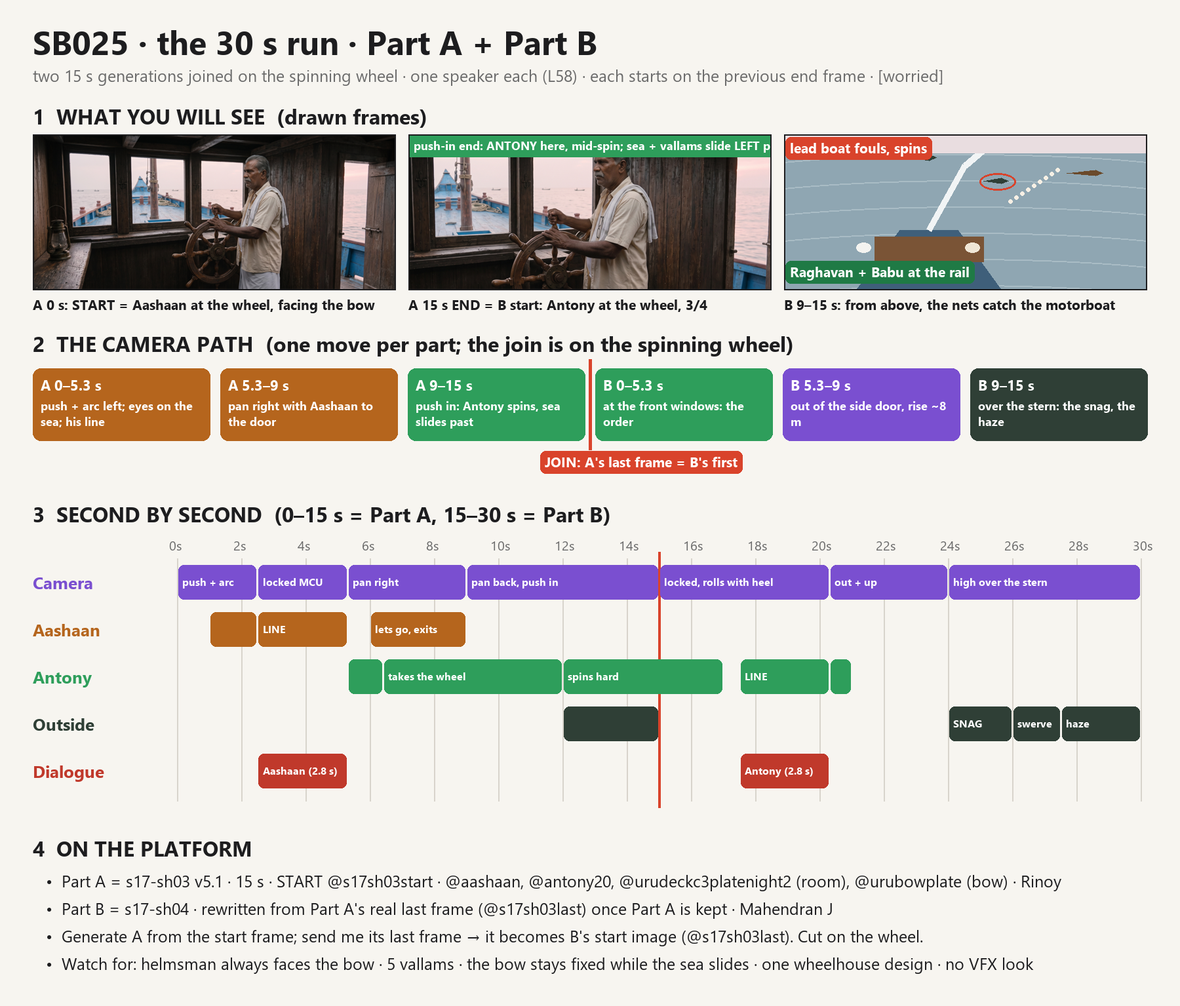
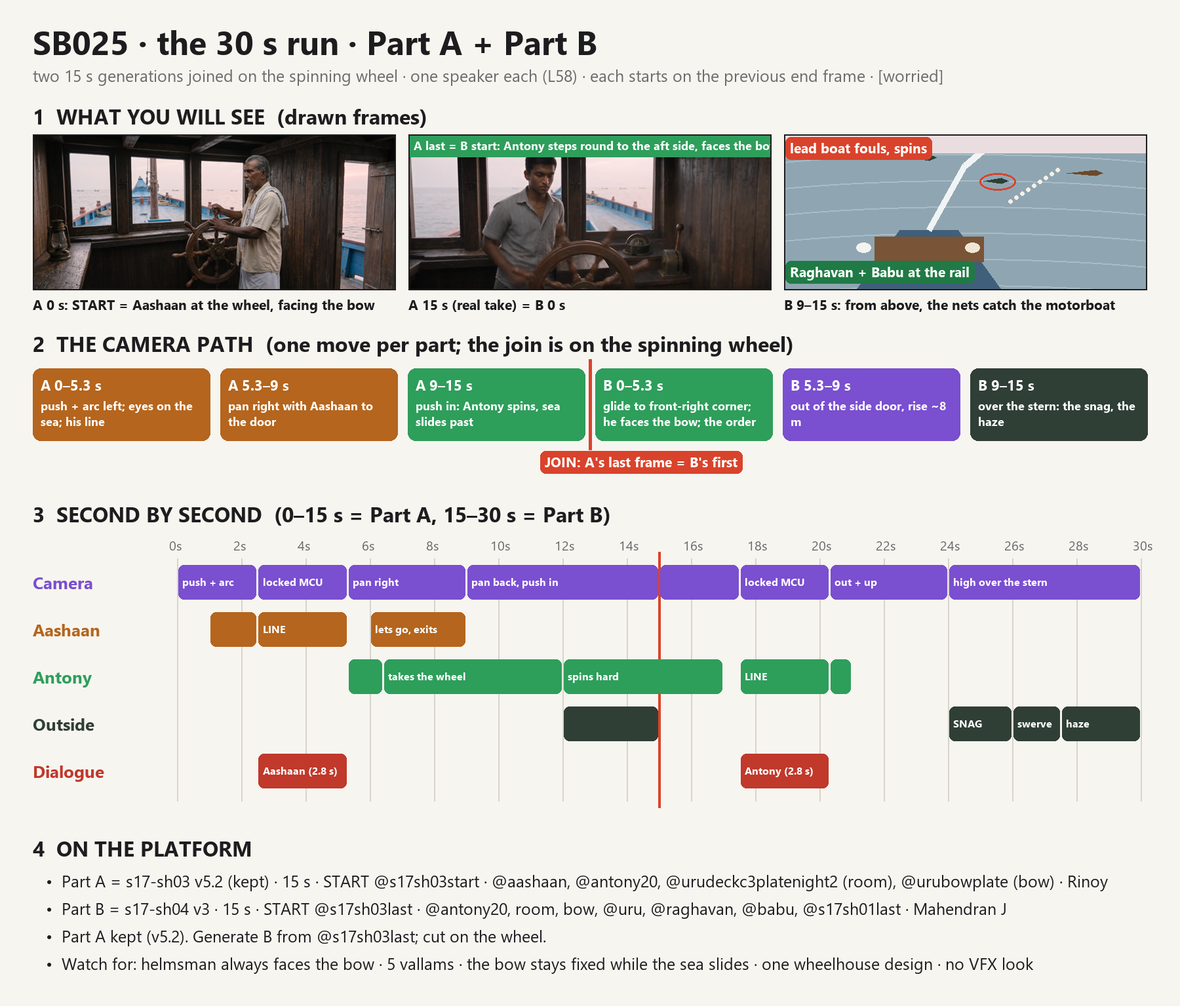
Ranjith: shot: s17-sh04 v3 (Part B from Part A's last frame; Antony steps to the aft side of the wheel, faces the bow)

diff --git a/tools/shotsheets/s17-run-30s.py b/tools/shotsheets/s17-run-30s.py
@@ -21,8 +21,8 @@ y0 = 155
 d.text((50, y0), "1  WHAT YOU WILL SEE  (drawn frames)", font=F(32, True), fill=INK)
 pw = (W - 140) // 3; ph = int(pw / 2.333)
 a = Image.open("scenes/showreel/attach/s17-sh03/00-START-s17sh03start.png").convert("RGB").resize((pw, ph))
-b = Image.open("scenes/showreel/attach/s17-sh03/00-START-s17sh03start.png").convert("RGB").crop((700, 150, 2900, 150 + 943)).resize((pw, ph))
-bd = ImageDraw.Draw(b); bd.rectangle([0, 0, pw, 34], fill="#2e9e5b"); bd.text((8, 4), "push-in end: ANTONY here, mid-spin; sea + vallams slide LEFT past the bow", font=F(18, True), fill="white")
+b = Image.open("scenes/showreel/approved/sb025-chase/s17-sh03-last.png").convert("RGB").resize((pw, ph))
+bd = ImageDraw.Draw(b); bd.rectangle([0, 0, pw, 34], fill="#2e9e5b"); bd.text((8, 4), "A last = B start: Antony steps round to the aft side, faces the bow", font=F(18, True), fill="white")
 # reveal from above (drawn)
 r = Image.new("RGB", (pw, ph), "#8fa6b2"); rd = ImageDraw.Draw(r)
 for k in range(6): rd.arc([-200, 30 + k * 40, pw + 200, 160 + k * 40], 200, 340, fill="#a9bcc5", width=2)
@@ -37,7 +37,7 @@ rd.polygon([(pw * .8, ph * .1), (pw * .85, ph * .08), (pw * .87, ph * .1), (pw *
 rd.rectangle([0, 0, pw, ph * .12], fill="#e9dde0")
 rd.ellipse([pw * .2, ph * .7, pw * .24, ph * .76], fill="#f3f3f0"); rd.ellipse([pw * .5, ph * .7, pw * .54, ph * .76], fill="#efe6d6")
 y = y0 + 50
-for i, (img, lab) in enumerate([(a, "A 0 s: START = Aashaan at the wheel, facing the bow"), (b, "A 15 s END = B start: Antony at the wheel, 3/4"), (r, "B 9–15 s: from above, the nets catch the motorboat")]):
+for i, (img, lab) in enumerate([(a, "A 0 s: START = Aashaan at the wheel, facing the bow"), (b, "A 15 s (real take) = B 0 s"), (r, "B 9–15 s: from above, the nets catch the motorboat")]):
     x = 50 + i * (pw + 20); im.paste(img, (x, y)); d.rectangle([x, y, x + pw, y + ph], outline=INK, width=2)
     d.text((x, y + ph + 8), lab, font=F(21, True), fill=INK)
 x3 = 50 + 2 * (pw + 20)
@@ -47,7 +47,7 @@ tag((x3 + 8, y + 8), "lead boat fouls, spins", JOIN); tag((x3 + 8, y + ph - 40),
 y1 = y + ph + 60
 d.text((50, y1), "2  THE CAMERA PATH  (one move per part; the join is on the spinning wheel)", font=F(32, True), fill=INK)
 steps = [("A 0–5.3 s", "push + arc left; eyes on the sea; his line", AAS), ("A 5.3–9 s", "pan right with Aashaan to the door", AAS), ("A 9–15 s", "push in: Antony spins, sea slides past", ANT),
-         ("B 0–5.3 s", "at the front windows: the order", ANT), ("B 5.3–9 s", "out of the side door, rise ~8 m", CAM), ("B 9–15 s", "over the stern: the snag, the haze", MOT)]
+         ("B 0–5.3 s", "glide to front-right corner; he faces the bow; the order", ANT), ("B 5.3–9 s", "out of the side door, rise ~8 m", CAM), ("B 9–15 s", "over the stern: the snag, the haze", MOT)]
 bx = 50; by = y1 + 60; bw = (W - 100 - 5 * 16) // 6
 for i, (t1, t2, col) in enumerate(steps):
     x = bx + i * (bw + 16)
@@ -65,7 +65,7 @@ d.line([jx, by - 14, jx, by + 124], fill=JOIN, width=5); tag((jx - 70, by + 130)
 y2 = by + 200
 d.text((50, y2), "3  SECOND BY SECOND  (0–15 s = Part A, 15–30 s = Part B)", font=F(32, True), fill=INK)
 tx, tw_ = 270, 1470; ty = y2 + 90; S = 30
-rows = [("Camera", CAM, [(0, 2.5, "push + arc"), (2.5, 5.3, "locked MCU"), (5.3, 9, "pan right"), (9, 15, "pan back, push in"), (15, 20.3, "locked, rolls with heel"), (20.3, 24, "out + up"), (24, 30, "high over the stern")]),
+rows = [("Camera", CAM, [(0, 2.5, "push + arc"), (2.5, 5.3, "locked MCU"), (5.3, 9, "pan right"), (9, 15, "pan back, push in"), (15, 17.5, "glide to corner"), (17.5, 20.3, "locked MCU"), (20.3, 24, "out + up"), (24, 30, "high over the stern")]),
         ("Aashaan", AAS, [(1, 2.5, "glance, nod"), (2.5, 5.3, "LINE"), (6, 9, "lets go, exits")]),
         ("Antony", ANT, [(5.3, 6.4, "steps in"), (6.4, 12, "takes the wheel"), (12, 17, "spins hard"), (17.5, 20.3, "LINE"), (20.3, 21, "glance")]),
         ("Outside", MOT, [(12, 15, "sea slides past bow"), (24, 26, "SNAG"), (26, 27.5, "swerve"), (27.5, 30, "haze")]),
@@ -84,9 +84,9 @@ for i, (lab, col, segs) in enumerate(rows):
 # 4. platform
 y3 = ty + 72 * len(rows) + 60
 d.text((50, y3), "4  ON THE PLATFORM", font=F(32, True), fill=INK)
-lines = ["Part A = s17-sh03 v5.1 · 15 s · START @s17sh03start · @aashaan, @antony20, @urudeckc3platenight2 (room), @urubowplate (bow) · Rinoy",
-         "Part B = s17-sh04 · rewritten from Part A's real last frame (@s17sh03last) once Part A is kept · Mahendran J",
-         "Generate A from the start frame; send me its last frame → it becomes B's start image (@s17sh03last). Cut on the wheel.",
+lines = ["Part A = s17-sh03 v5.2 (kept) · 15 s · START @s17sh03start · @aashaan, @antony20, @urudeckc3platenight2 (room), @urubowplate (bow) · Rinoy",
+         "Part B = s17-sh04 v3 · 15 s · START @s17sh03last · @antony20, room, bow, @uru, @raghavan, @babu, @s17sh01last · Mahendran J",
+         "Part A kept (v5.2). Generate B from @s17sh03last; cut on the wheel.",
          "Watch for: helmsman always faces the bow · 5 vallams · the bow stays fixed while the sea slides · one wheelhouse design · no VFX look"]
 for i, t in enumerate(lines): d.text((70, y3 + 55 + i * 42), "•  " + t, font=F(25), fill=INK)
 im = im.crop((0, 0, W, y3 + 55 + len(lines) * 42 + 40))

diff --git a/scenes/showreel/retired/s17-sh04-v2.md b/scenes/showreel/retired/s17-sh04-v2.md
@@ -1,0 +1,111 @@
+# s17-sh04 · SB025–SB026 — PART B of the 30 s run: "ropes up", then out over the stern: the nets catch the motorboats · 15 s · v2
+Status: **ready (Ranjith, 2026-11-21)** · Malayalam dialogue · continues from Part A (`s17-sh03.md` v2) · assets only, no start frame · v1 retired (`retired/s17-sh04-v1.md`)
+Created by: Ranjith
+Start image (Ranjith, 2026-11-21, back to the previous-end-frame strategy): Part B starts on the LAST FRAME of the Part A take. When Part A is generated, its last frame is saved as `@s17sh03last` and attached here as the start image; until then this prompt describes that frame in FIRST FRAME.
+30 s run (Ranjith, 2026-11-21): two 15 s generations joined on the spinning wheel. Part B's first frame is Part A's last: Antony behind the wheel facing the camera, mid-spin, the room heeling about 4 degrees, a motorboat surging in the side door at frame right.
+Story: Antony calls forward to Aashaan to lift the ropes at the front (storyboard line 3 of SB025), glances at the motorboat in the door; the camera follows his glance out of the door and rises over the stern: the uru, heeled in its turn, has just passed a metre from the last fishing net; the lead motorboat drives straight into the net and fouls its propeller, spinning to a stop; the second swerves past a vallam; the third goes wide; the dawn haze rolls in between (SB026: "working boats and poor visibility break the pursuer's line").
+Camera (cinematographer, extension of the s17-sh04 move chosen by Ranjith: Use): locked MCU at the wheel for the line, the camera rolling with the heel; then it follows his glance, crosses to the side door and out onto the side deck, and rises about 8 m, turning to look aft over the port quarter for the reveal.
+Escape plan: the visual play agreed with Ranjith (2026-11-21): skim past the end of the net line; the lead boat fouls and spins; one swerves past a vallam; one goes wide; haze.
+Dialogue (storyboard SB025, authoritative Manglish: munnile kayar oke mukallilekyu uyarth ashaane): ANTONY — മുന്നിലെ കയറൊക്കെ മുകളിലേക്ക് ഉയർത്ത്, ആശാനേ.
+Voice: Antony = **Mahendran J**. Scene emotion: [worried] (one for SB025).
+Lessons applied: L34, L58, L61, L82, L83 (everyone moving), L141 (urgent sound and movement), L147 (split run), L159, L160, L166, L168 (pursuers on the wake; gap in boat lengths), L169 (uru size in motorboat lengths), L170 (the reveal enters from a frame edge), checklist 190, assets only.
+Attach: `@antony20` (full, 0–7 s), `@uru` (full, 7–15 s), `@raghavan` (full, 9–15 s), `@babu` (full, 9–15 s), `@urudeckc3platedawn` (background only: the room, 0–7 s), `@wheelhousenightref` (design reference only, 0–7 s), `@s17sh01last` (reference: boats, crew, sea and light, 9–15 s). No start image, no end image. Remove every other attachment (L88). **15 s.** 21:9, Malayalam.
+Continuity assets (Ranjith, 2026-11-21): `@urudeckc3platedawn` and `@s17sh01last` attached with their roles written out (L61 handled by the role text). Left out: `@aashaan` (at the bow, behind the camera while Antony speaks; out of view in the reveal); `@urubowplate` and the night deck plates (night); `@urudeckc1plate` (day main deck, but at the harbour quay); `@wheelhouse` (only on Aswanth's account).
+Attach folder: `scenes/showreel/attach/s17-sh04/`
+Storyboard: `scenes/showreel/storyboards/s17-run-30s-clear.png` (never attached)
+Edit note (music): the chase score peaks on the snag at about 10 s and falls away into the haze.
+
+## Prompt
+```text
+SCENE CONTEXT
+Dawn, 1998, open sea in Sri Lankan waters. Inside the small wooden wheelhouse at the back of our uru, Antony at the wheel is turning hard to pass round the end of a line of fishing nets, a motorboat close behind; he calls one Malayalam order forward to the old skipper at the bow. Then the camera goes out and up over the stern and shows the escape: the uru has just slipped past the last net, the lead motorboat drives into the net and is caught, the others break away, and the haze rolls in. One continuous shot, 15 seconds. Emotion (one, for the whole shot): worried. Only Antony speaks, only in Malayalam, while he is alone in frame.
+SPOKEN LANGUAGE: Malayalam. Every spoken word in this video is the exact Malayalam text given in quotes in AUDIO. No English words are spoken.
+
+MEMORY
+Place, inside: the small wooden wheelhouse seen from just inside its front windows looking aft: the big spoked wooden wheel on its timber pedestal, Antony behind it facing the camera; the back wall of dark vertical carved planks, a heavy beam overhead, an unlit brass lantern on a hook; the open side door at the right of the frame, about 70 cm wide, showing the blue side deck rail and the sea astern.
+Place, outside: the uru's blue side deck and rail, the carved two-level wooden deckhouse with its small top deck and turned-post balustrade; behind the uru its wide curving wake; just off its starboard quarter the end of a line of five small wooden fishing vallams with their nets spread in the water, the nets marked by lines of small floats; behind the uru three open motorboats, dark hulls, two men in each.
+Light: hazy pink-grey dawn, as in the shots before: soft daylight about 5800K, a dull red sun low on the horizon; the sea calm grey-pink with a low swell; from about 12s a bank of morning haze rolling across the sea.
+People: inside, Antony alone. Outside: Raghavan and Babu at the top-deck rail of the deckhouse; the fishermen in the vallams; the men in the motorboats. Aashaan is at the bow, out of view.
+FIRST FRAME (0.0s), the instant Part A ends: Antony behind the wheel facing the camera, about 1.6 m away, in a medium shot, both hands on the spokes, mid-spin, eyes forward on the bow about 15 degrees left of the lens; the wheelhouse heeled about 4 degrees; through the side door at the right a motorboat's bow surging close astern in spray.
+
+ACTIVE REFERENCES
+@antony20 (full, 0.0s–7.0s): Antony, the young sailor, the only speaker, alone in frame while he speaks: a young Kerala man about 22, round youthful clean-shaven face, short black hair combed back with a few loose strands, the lavender-grey and white thin vertical striped short-sleeve shirt with the sleeves rolled once, a thin silver chain, the grey-green checked mundu, barefoot. A native Malayalam speaker from the Kollam coast; a firm young male voice, slightly out of breath. 100% matches the reference.
+@uru (full, 7.0s–15.0s): our uru exactly as on this sheet, seen from above its own deckhouse looking aft: the weathered blue-grey wooden hull with rust streaks, the rust-red lower hull, the brown plank decks, the carved two-level deckhouse with turned-post balustrades and the small top deck, the dark blue band with COCHIN on the stern; about three motorboat lengths long, never bigger. 100% matches the reference.
+@raghavan (full, 9.0s–15.0s): Raghavan at the top-deck rail in the lower left of the frame, seen from above and behind-left: wiry, about 60, grey hair, white vest, the red-and-white checked towel round his neck. 100% matches the reference.
+@babu (full, 9.0s–15.0s): Babu beside him at the rail, lower right: heavy-set, about 40, the red-and-white checked towel tied on his head, off-white half-sleeve shirt. 100% matches the reference.
+@urudeckc3platedawn (background only, 0.0s–7.0s): our wheelhouse at this same dawn, exactly as on this plate: the dark carved wooden walls, the open side door onto the blue side deck, the glass front windows in dark wooden frames, the spoked wheel, the pink-grey light. The plate looks forward from beside the wheel; this shot looks aft from the front windows, so take the room, the materials and the light from it, not its camera angle. 100% matches the reference.
+@wheelhousenightref (design reference only, 0.0s–7.0s): the wheelhouse as the team built it in an earlier night scene: the spoked wooden wheel with its brass hub, the plank walls, the wooden window frames, the hurricane lantern on the shelf. Take only the design of the room and the wheel from it; NOT its night light, NOT its moon, and NOT its people: every person comes only from their own reference sheet. 100% matches the reference.
+@s17sh01last (reference for continuity, 9.0s–15.0s): the last frame of the approved chase shot: the uru seen from behind with COCHIN on its stern, the three open motorboats with two men each on its wake, Raghavan and Babu at the top-deck rail, the calm hazy pink-grey sea and the round red sun. Take the boats, the men, the sea and the light from it; this shot sees them from higher, above the deckhouse. 100% matches the reference.
+
+THE NETS AND THE THREE MOTORBOATS
+Exactly five small wooden fishing vallams, about 9 m long, in a loose line; from each, a net spreads in the water as a curved line of small white and orange floats about 30 m long, the net itself just under the surface. Exactly three open motorboats, each about 8 m long with a dark hull, one outboard engine and two men, no markings, no flags, no weapons. In the reveal: the uru's curving wake passes within about 1 m of the floats of the last net; the lead motorboat, about 25 m behind on the uru's wake, cuts the corner straight across the float line at 10.0s, its propeller fouls with a burst of white water, the boat slews round almost a full turn and stops dead, the two men thrown forward and grabbing the sides; the second motorboat swerves hard at 11.0s past the stern of a vallam, its bow lifting, and slows; the third swings wide round the far end of the nets. The fishermen in the two nearest vallams stand up and wave their arms at the motorboats.
+
+THE ESCAPE (most important)
+The shot carries one continuous movement of story: the order at the wheel, then the sight of what the turn has done. From 3.0s to 5.8s Antony calls his one Malayalam line forward in a medium close-up, head steady, mouth fully visible, alone in frame. After the line the camera follows his glance out of the side door and rises over the stern, and from about 9.0s the whole escape reads at once from above: the uru heeled in its turn, its wake curving past the end of the nets; the lead motorboat caught in the net and spinning to a stop; the other two breaking away; the gap opening from about 25 m to about 60 m (from three to eight motorboat lengths); and from 12.0s the haze sliding in between them and the uru, softening the motorboats to dim shapes by 15.0s. The uru stays clear and sharp in the foreground.
+
+FORMAT MODE
+One continuous shot, 15 seconds, real time, no cut, no slow motion, 21:9 cinematic. Runs the full 15 seconds.
+
+CAMERA AND ACTION
+One smooth continuous camera move, 50mm inside, widening to 28mm outside without a cut (no zoom effect: the move carries it).
+0.0s to 2.0s — Just inside the front windows, 1.6 m up, looking aft at Antony behind the wheel; mounted to the boat, rolling with it: he finishes the hard spin, hand over hand; the heel deepens to about 6 degrees; the motorboat roars close in the side door.
+2.0s to 2.5s — He stops the wheel, braces his feet wide, his head settles facing the bow, a sharp breath in.
+2.5s to 5.3s — He calls his line forward, head steady, eyes on the bow about 15 degrees left of the lens.
+5.3s to 7.0s — His eyes flick to the side door at the right; the camera follows the glance: it pans right and glides across the wheelhouse to the side door and out through it onto the side deck, Antony leaving the frame at the left.
+7.0s to 9.0s — On the side deck the camera rises smoothly straight up past the deckhouse wall and the top-deck balustrade to about 8 m above the deck, turning to look aft over the port quarter; the stern, the wake and the sea behind the uru come into view from the bottom of the frame upward (L170: nothing appears out of nothing).
+9.0s to 15.0s — High over the stern, looking aft and down: Raghavan and Babu at the top-deck rail in the lower foreground, the uru's stern and curving wake below them, the end of the net line and two vallams at the right, the three motorboats behind. At 10.0s the lead motorboat fouls in the net and spins to a stop; at 11.0s the second swerves past a vallam; the third goes wide at the left; Raghavan punches the air once with his right fist and leans out over the rail, Babu grips the rail and laughs out once without words; the fishermen wave their arms; from 12.0s the haze rolls in between, and the camera holds as the uru pulls away.
+
+EYELINES
+0.0s–5.3s: Antony's eyes on the bow, about 15 degrees left of the lens, level; never into the lens. 5.3s–6.0s: a glance to the side door at the right. Outside: Raghavan and Babu look back down at the motorboats; the men in the motorboats look at the nets and the uru; the fishermen look at the motorboats; nobody looks up at the camera.
+
+DIALOGUE RULES
+Dialogue rules: whenever a character speaks, frame them in a medium close-up with their face filling at least a third of the frame height. The speaking face is turned toward the camera, no more than 30 degrees from the lens, upright and not lying sideways. Only one person speaks in the shot; everyone else keeps their mouth closed. The speaker's head stays steady during the line; head turns, gestures and camera moves happen only in pauses between lines. The mouth is always fully visible, with nothing in front of the face, and the face is lit with soft, even frontal light. Natural, clearly articulated mouth movements matching the dialogue.
+
+ACTING & MICRO-EXPRESSION
+Antony: breath fast and high, nostrils flared; on the spin the jaw clenches and the knuckles pale; on the brace the brows pull hard together and the eyes narrow; during the line the eyes fixed on the bow with one blink, the chin up to throw the voice, certain, not panicked; after it a hard swallow and the eyes flick to the door. Outside, from far above: Raghavan's whole body springs forward with the fist; Babu's shoulders drop with relief; the men in the caught motorboat lurch and grab the sides. Restrained faces, big clear bodies.
+
+CAPTURE IMPERFECTIONS
+A constant small vibration from the engine and the turn inside; 1.2s the frame jolts as the hull bites into the turn; 6.5s the frame brushes past the door frame edge as it goes out; 8.0s a gust of wind buffets the rising camera; 10.2s spray from the snagged motorboat catches the light; 13.0s a slight focus breath as the haze arrives.
+
+REAL-WORLD PHYSICS
+The uru, about 30 tonnes of wood, moves at about 13 km/h; the hard turn swings the bow about 2 degrees per second and heels the hull about 6 degrees outward, coming upright by 9 s; its wide wake curves behind it. The motorboats, each about 2 tonnes, run at about 20 km/h; when the lead boat's propeller wraps in the net, the engine stalls, the stern kicks round, the boat slews almost a full turn in about 2 s and stops, white water boiling at its stern; the net's float line drags and bunches around it. The second boat's bow lifts as it brakes and swerves. The haze is a low white-pink bank about 5 m high drifting across at walking speed. Wind about 15 km/h lifts hair and the men's towels. Nothing moves by itself; every movement has a cause.
+
+PERFORMANCE
+Urgent, real and loose, never stiff or mechanical; everybody keeps moving the whole time. Inside, a young sailor in command for the first time: fast hands, a clear order. Outside, release: the crew's relief, the pursuers' scramble, the fishermen's anger at the boat in their net. No weapons, no fighting, no look into the lens.
+
+LIGHTING
+Inside: soft, even frontal light on Antony's face from the hazy pink-grey dawn through the front windows, about 5800K, warm dark wood around him. Outside: the same soft pink-grey dawn, about 5800K, the dull red sun low on the horizon, the white spray and wakes bright but never blown out, the haze glowing pale pink; no golden light.
+
+AUDIO
+Sound effects only — natural on-location sound, the soundtrack carries no music. No music at all: no score, no background music, no song, no humming, and no cinematic sound design: no riser, no whoosh, no swell. Inside: the outboard screaming close through the door, the rudder chain, the creaking wheel, the hull groaning in the turn, his hard breathing. Outside: open wind on the rising camera; at 10.0s the lead outboard's scream choking off into a stall with a thrash of water; the second engine braking; the fishermen's distant indistinct calls under the wind, no words heard; the uru's low engine pulling away; the engines fading into the haze.
+Spoken language: Malayalam only, not English and not a translation. Antony says the exact Malayalam words written in quotes below, in everyday Kollam coastal Malayalam pronunciation, and nothing else. Lip-sync exact; every word is spoken on camera by Antony, who is alone in frame. The line is spoken once, exactly as written. The dialogue language is Malayalam.
+
+[worried]
+2.5s to 5.3s: Antony, Kollam coastal accent, a young voice raised to carry over the engines, clear and firm, not a scream; the stress on "മുകളിലേക്ക്"; a tiny pause at the comma; the name called out a little longer at the end with a falling pitch. About 2.8 seconds.
+"മുന്നിലെ കയറൊക്കെ മുകളിലേക്ക് ഉയർത്ത്, ആശാനേ."
+Nobody else speaks. From 5.3s to 15.0s nobody speaks.
+
+STYLE
+Photoreal 1998 Kerala period feature film, Every frame looks like real footage filmed on a real wooden boat at sea, never like VFX or CGI: real water with real foam, spray and reflections, real wood, real skin and cloth, every boat and person sitting in the same light and haze as the rest of the frame, with soft natural edges and real contact shadows; no composited or pasted-in look, no glowing outlines, no 3D-render or game look, no over-clean water, no digital smoke; the haze is real sea mist. 24fps, fine 35mm grain, gentle halation on the spray, the door light and the haze, visible skin texture and real pores, real wood grain and water, no smoothing. Shot on a Sony Venice 2 full-frame digital cinema camera: very wide dynamic range that holds the brightest light and the deepest shade in one frame; clean, low-noise shadows; soft, gradual highlight roll-off; accurate, natural colour with rich, true skin tones; gentle filmic contrast; fine, organic texture; no over-sharpening, no glossy or video look. Hazy pink-grey dawn.
+
+CONSTRAINTS
+While Antony speaks he is the only person in the frame, behind the wheel facing the camera; exactly one wheel, inside the wheelhouse. Outside, exactly five vallams, exactly three motorboats (two men each), exactly two men at the top-deck rail (Raghavan and Babu). The motorboats stay behind the uru; none comes alongside or passes it. The uru stays about three motorboat lengths long, never bigger, its propeller and rudder under water. Only COCHIN on the stern as writing; no flags, no numbers, no logos, no weapons, no gunfire, no Navy, no land. Nothing fades in or appears out of nothing; everything enters the frame from an edge as the camera moves. No English words, no subtitles. No hand or object near the lens. No cut, no zoom.
+
+POSITIVE LOCKS
+Exactly one Malayalam line, Antony's, spoken once in Malayalam from 2.5s to 5.3s, alone in frame, eyes about 15 degrees left of the lens. Then one continuous move out of the side door and up about 8 m over the stern. The lead motorboat fouls in the net at 10.0s and spins to a stop; the second swerves past a vallam at 11.0s; the third goes wide; haze from 12.0s. Raghavan and Babu moving at the rail; everyone moving the whole time. Runs the full 15 seconds.
+
+INTENT: When @antony20 says "മുന്നിലെ കയറൊക്കെ മുകളിലേക്ക് ഉയർത്ത്, ആശാനേ." let it be his first order as the man at the wheel: fast, sure, the fear held down under a clear voice, and then let the sea answer for him.
+```
+
+## Settings
+- **Duration: 15 s**
+- Aspect ratio 21:9
+- No start image, no end image (assets only)
+- Dialogue language: Malayalam · Antony's voice: **Mahendran J**
+- Attach: `@antony20` (full), `@uru` (full), `@raghavan` (full), `@babu` (full), `@urudeckc3platedawn` (background only), `@wheelhousenightref` (design reference), `@s17sh01last` (reference)
+- Music: none in the generation; the score peaks on the snag in the edit
+
+## QC
+PROMPT QA — s17-sh04 v2 (Part B) · Score 100/100 · Ready (qc_panel.py 100). Antony's line matches the storyboard character for character, only in AUDIO and INTENT; Malayalam named 5+ times; dialogue block word for word; one emotion; Antony alone in frame while speaking (L34); one speaker (L58); first frame = Part A's last; the reveal enters from the frame edge as the camera rises (L170); exactly three motorboats behind the uru on its wake (L168), uru size in motorboat lengths (L169); the escape follows the agreed visual play; everyone moving (L83). IDs @antony20, @uru, @raghavan, @babu registered. Assets only.
+
+## Generation results

diff --git a/scenes/showreel/attach/s17-sh04/README.md b/scenes/showreel/attach/s17-sh04/README.md
@@ -1,8 +1,9 @@
-# s17-sh04 v2 = PART B of the 30 s run (assets only, no start image)
-- 01-antony20.jpg → @antony20 (full)
-- 02-uru.png → @uru (full)
-- 03-raghavan.png → @raghavan (full)
-- 04-babu.png → @babu (full)
-- 05-urudeckc3platedawn.png → @urudeckc3platedawn (background only: the room)
-- 06-s17sh01last.jpg → @s17sh01last (reference: boats, crew, sea, light)
-- 07-wheelhousenightref.png → @wheelhousenightref (design reference only: room and wheel; never its people or night light)
+# s17-sh04 v3 = PART B of the 30 s run (starts on Part A's last frame)
+- 00-START-s17sh03last.png → START IMAGE slot, @s17sh03last (Antony at the wheel, the last frame of Part A)
+- 01-antony20.jpg → @antony20 (full, 0–7 s)
+- 02-uru.png → @uru (full, 7–15 s)
+- 03-raghavan.png → @raghavan (full, 9–15 s)
+- 04-babu.png → @babu (full, 9–15 s)
+- 05-urudeckc3platenight2.png → @urudeckc3platenight2 (the wheelhouse design, 0–7 s: the room only, NOT its night)
+- 06-s17sh01last.jpg → @s17sh01last (reference: boats, crew, sea and light, 9–15 s)
+- 07-urubowplate.png → @urubowplate (background only, 0–5.3 s: the bow through the windows, NOT its night)
